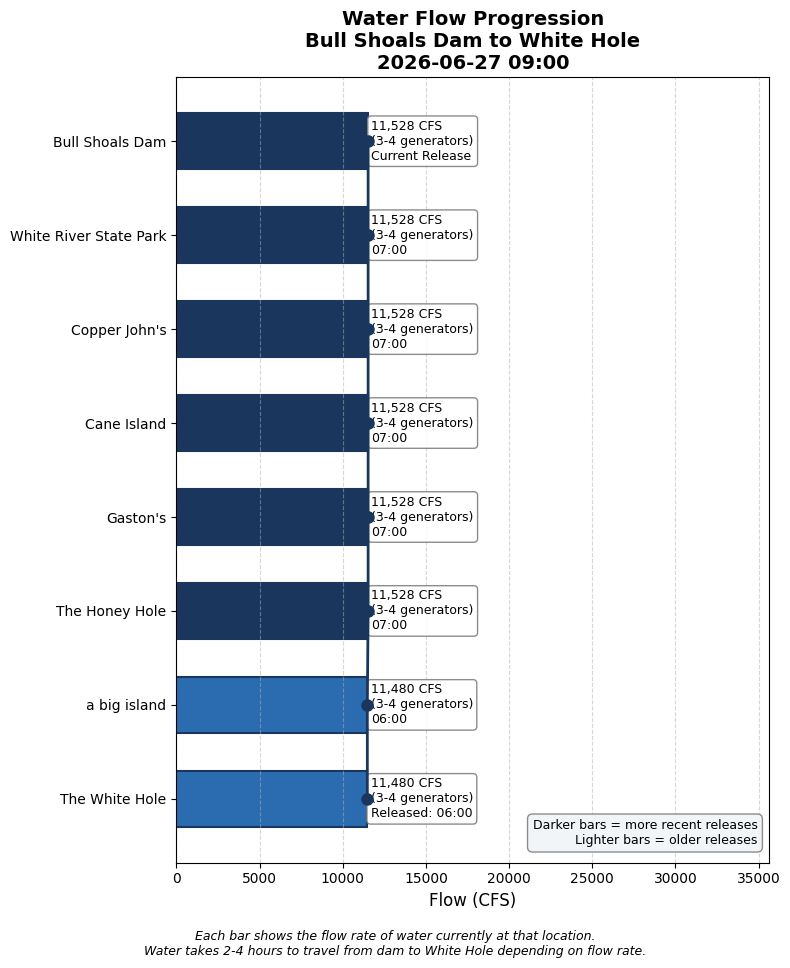
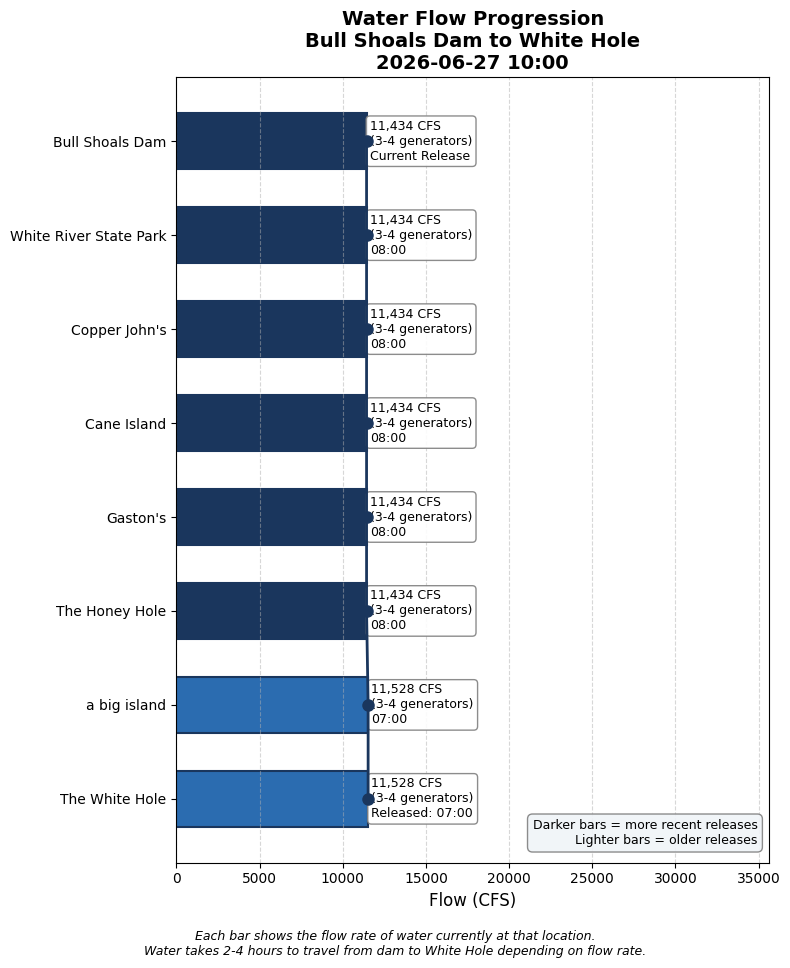
Update water conditions 2026-06-27 10:00

diff --git a/white_hole_conditions.html b/white_hole_conditions.html
@@ -3,7 +3,7 @@
 <head>
     <meta charset="UTF-8">
     <meta name="viewport" content="width=device-width, initial-scale=1.0">
-    <title>White Hole Conditions - 2026-06-27 09:00</title>
+    <title>White Hole Conditions - 2026-06-27 10:00</title>
     <style>
         body {
             font-family: -apple-system, BlinkMacSystemFont, 'Segoe UI', Roboto, sans-serif;
@@ -148,7 +148,7 @@
 </head>
 <body>
     <h1>White Hole Current Conditions</h1>
-    <p class="subtitle">Saturday, June 27, 2026 at 09:00 AM</p>
+    <p class="subtitle">Saturday, June 27, 2026 at 10:00 AM</p>
 
     <!-- HEADLINE BANNER -->
     <div class="headline-banner">
@@ -160,7 +160,7 @@
     <!-- CURRENT CONDITIONS -->
     <div class="current-conditions">
         <h3>Current Conditions at White Hole</h3>
-        <div class="flow-display">11,480 CFS</div>
+        <div class="flow-display">11,528 CFS</div>
         <div class="generator-display">Equivalent to 3-4 generators</div>
         <div class="condition-pills">
             <span class="pill wading">No Wading</span>
@@ -189,6 +189,14 @@
                 <tr><td colspan="3" style="padding: 8px 10px; font-size: 0.8em; font-weight: bold; color: #6b46c1; text-transform: uppercase; letter-spacing: 0.05em; background-color: #f3e8ff;">Scheduled (SWPA forecast)</td></tr>
                 
                     <tr style="background-color: #faf5ff; ">
+                        <td style="padding: 10px; font-weight: bold;">1 PM</td>
+                        <td style="padding: 10px;">13,754 CFS<br><small style="color: #666;">(4-5 generators: 13504 generation + 250 min flow)</small></td>
+                        <td style="padding: 10px;">~3:23 PM
+                            <span style="display: inline-block; margin-left: 6px; padding: 2px 8px; border-radius: 12px; font-size: 0.8em; background-color: #fee2e2; color: #991b1b;">No Wading</span>
+                        </td>
+                    </tr>
+                
+                    <tr style="background-color: #faf5ff; ">
                         <td style="padding: 10px; font-weight: bold;">12 PM</td>
                         <td style="padding: 10px;">13,754 CFS<br><small style="color: #666;">(4-5 generators: 13504 generation + 250 min flow)</small></td>
                         <td style="padding: 10px;">~2:23 PM
@@ -212,33 +220,25 @@
                         </td>
                     </tr>
                 
-                    <tr style="background-color: #faf5ff; ">
-                        <td style="padding: 10px; font-weight: bold;">9 AM</td>
-                        <td style="padding: 10px;">12,741 CFS<br><small style="color: #666;">(3-4 generators: 12491 generation + 250 min flow)</small></td>
-                        <td style="padding: 10px;">~11:27 AM
-                            <span style="display: inline-block; margin-left: 6px; padding: 2px 8px; border-radius: 12px; font-size: 0.8em; background-color: #fee2e2; color: #991b1b;">No Wading</span>
-                        </td>
-                    </tr>
-                
             
                     
                 <tr><td colspan="3" style="padding: 8px 10px; font-size: 0.8em; font-weight: bold; color: #2b6cb0; text-transform: uppercase; letter-spacing: 0.05em; background-color: #ebf8ff;">Actual (dam readings)</td></tr>
                 
                     <tr style="background-color: #ebf8ff;">
-                        <td style="padding: 10px; font-weight: bold;">7:00 AM</td>
-                        <td style="padding: 10px;">11,528 CFS<br><small style="color: #666;">(3-4 generators)</small></td>
-                        <td style="padding: 10px;"><span style="color: #2b6cb0;">→ Arrives ~9:32 AM (in 32 min)</span></td>
+                        <td style="padding: 10px; font-weight: bold;">8:00 AM</td>
+                        <td style="padding: 10px;">11,434 CFS<br><small style="color: #666;">(3-4 generators)</small></td>
+                        <td style="padding: 10px;"><span style="color: #2b6cb0;">→ Arrives ~10:33 AM (in 33 min)</span></td>
                     </tr>
                 
                     <tr style="background-color: #e6fffa;">
-                        <td style="padding: 10px; font-weight: bold;">6:00 AM</td>
-                        <td style="padding: 10px;">11,480 CFS<br><small style="color: #666;">(3-4 generators)</small></td>
+                        <td style="padding: 10px; font-weight: bold;">7:00 AM</td>
+                        <td style="padding: 10px;">11,528 CFS<br><small style="color: #666;">(3-4 generators)</small></td>
                         <td style="padding: 10px;"><span style="color: #319795; font-weight: bold;">← AT WHITE HOLE NOW</span></td>
                     </tr>
                 
                     <tr style="">
-                        <td style="padding: 10px; font-weight: bold;">2:00 AM</td>
-                        <td style="padding: 10px;">10,908 CFS<br><small style="color: #666;">(3-4 generators)</small></td>
+                        <td style="padding: 10px; font-weight: bold;">3:00 AM</td>
+                        <td style="padding: 10px;">10,351 CFS<br><small style="color: #666;">(3-4 generators)</small></td>
                         <td style="padding: 10px;"><span style="color: #718096;">passed</span></td>
                     </tr>
                 
@@ -268,9 +268,9 @@
         </summary>
         <div style="padding: 15px;">
             <ul>
-                <li>Latest dam reading: 11,528 CFS at 2026-06-27 07:00</li>
-                <li>Travel time to White Hole: 2.6 hours at current flow</li>
-                <li>White Hole conditions based on dam reading from: 2026-06-27 06:00</li>
+                <li>Latest dam reading: 11,434 CFS at 2026-06-27 08:00</li>
+                <li>Travel time to White Hole: 2.5 hours at current flow</li>
+                <li>White Hole conditions based on dam reading from: 2026-06-27 07:00</li>
             </ul>
         </div>
     </details>
@@ -292,6 +292,13 @@
                     </thead>
                     <tbody>
                         
+                <tr style="border-bottom: 1px solid #eee;">
+                    <td style="padding: 8px;">2026-06-27 08:00</td>
+                    <td style="padding: 8px; text-align: right;">11434</td>
+                    <td style="padding: 8px; text-align: right;">3.5</td>
+                    <td style="padding: 8px; text-align: right;">2.6</td>
+                </tr>
+                
                 <tr style="border-bottom: 1px solid #eee;">
                     <td style="padding: 8px;">2026-06-27 07:00</td>
                     <td style="padding: 8px; text-align: right;">11528</td>
@@ -348,13 +355,6 @@
                     <td style="padding: 8px; text-align: right;">2.8</td>
                 </tr>
                 
-                <tr style="border-bottom: 1px solid #eee;">
-                    <td style="padding: 8px;">2026-06-26 22:00</td>
-                    <td style="padding: 8px; text-align: right;">10799</td>
-                    <td style="padding: 8px; text-align: right;">3.3</td>
-                    <td style="padding: 8px; text-align: right;">2.6</td>
-                </tr>
-                
                     </tbody>
                 </table>
             </div>
@@ -362,7 +362,7 @@
         
 
     <div class="timestamp">
-        Data retrieved and processed on 2026-06-27 09:00:08
+        Data retrieved and processed on 2026-06-27 10:00:08
     </div>
 </body>
 </html>
